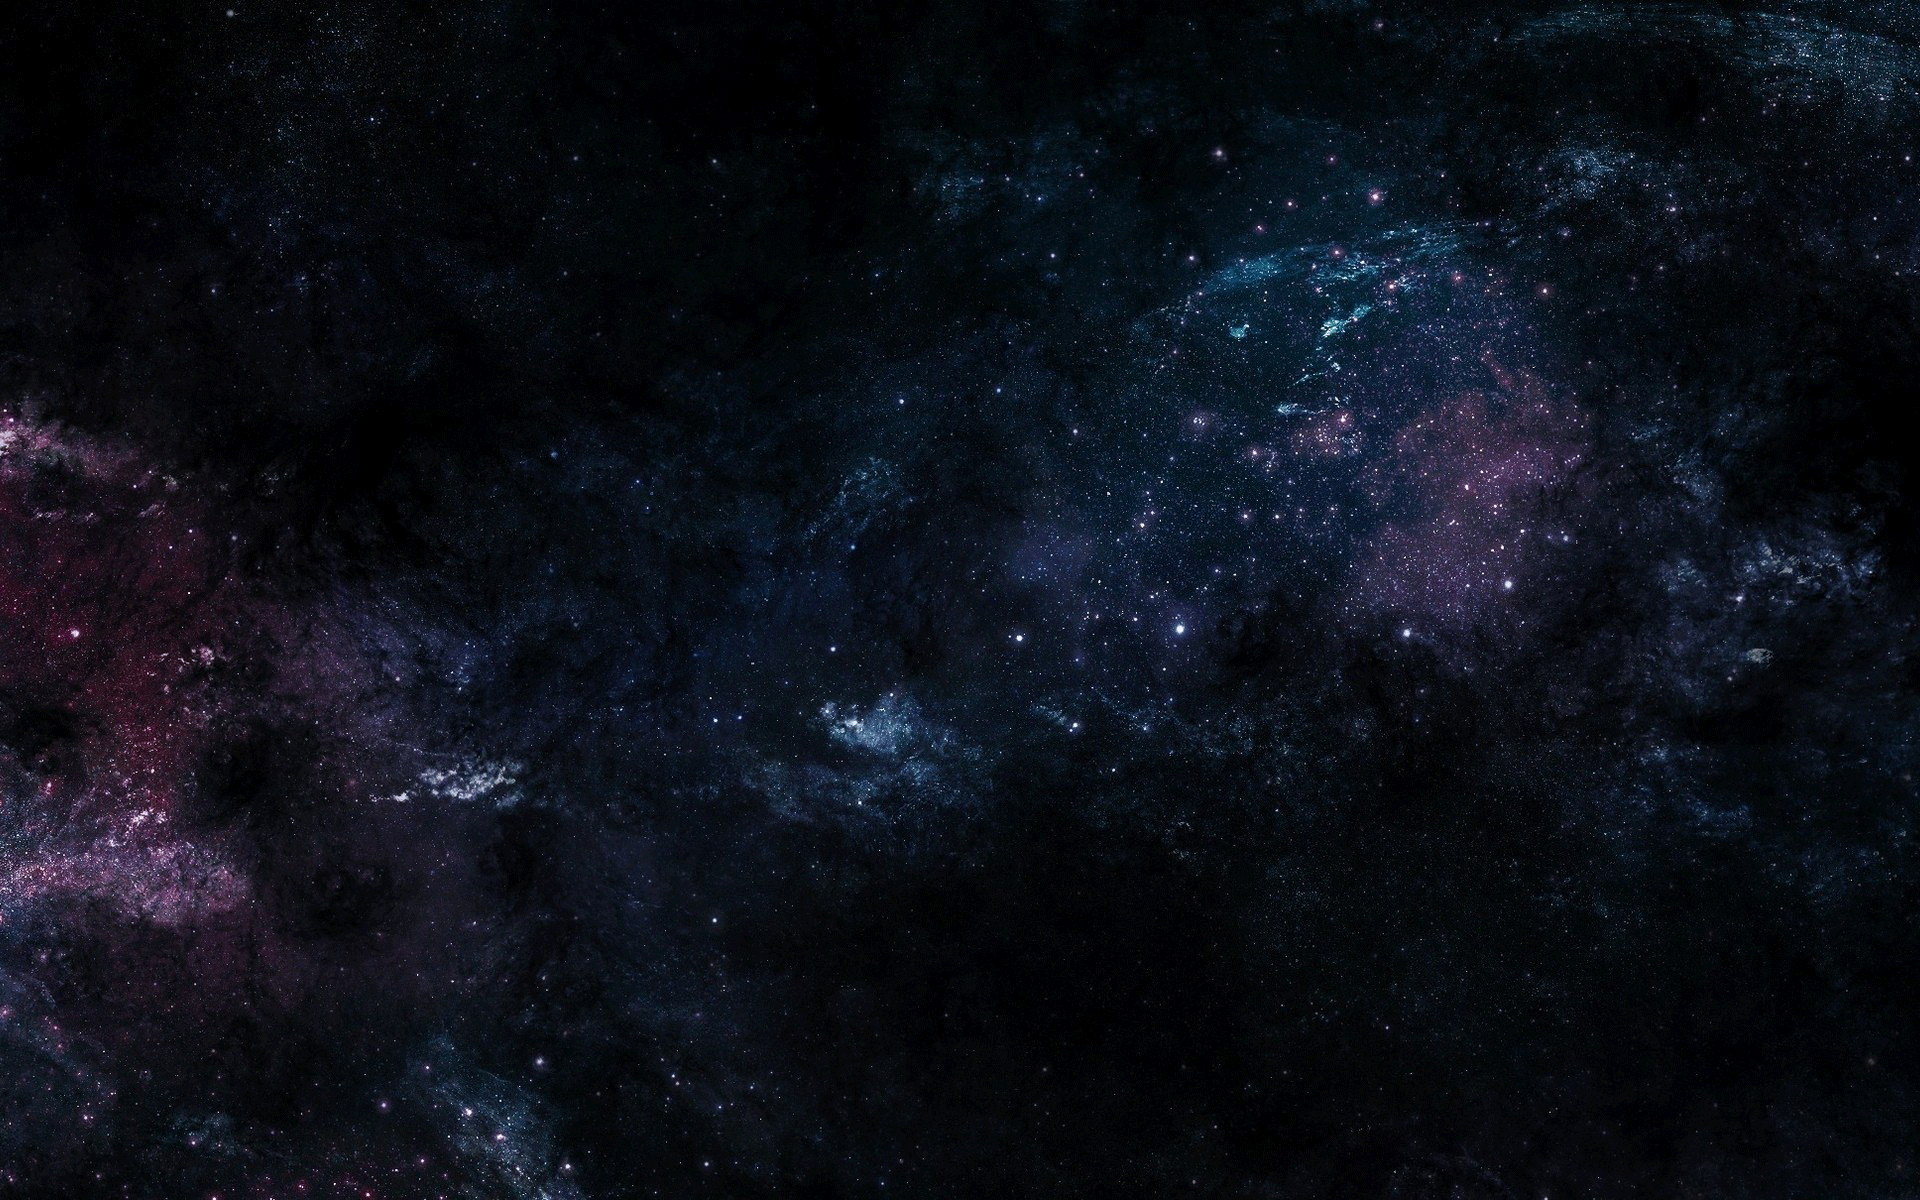
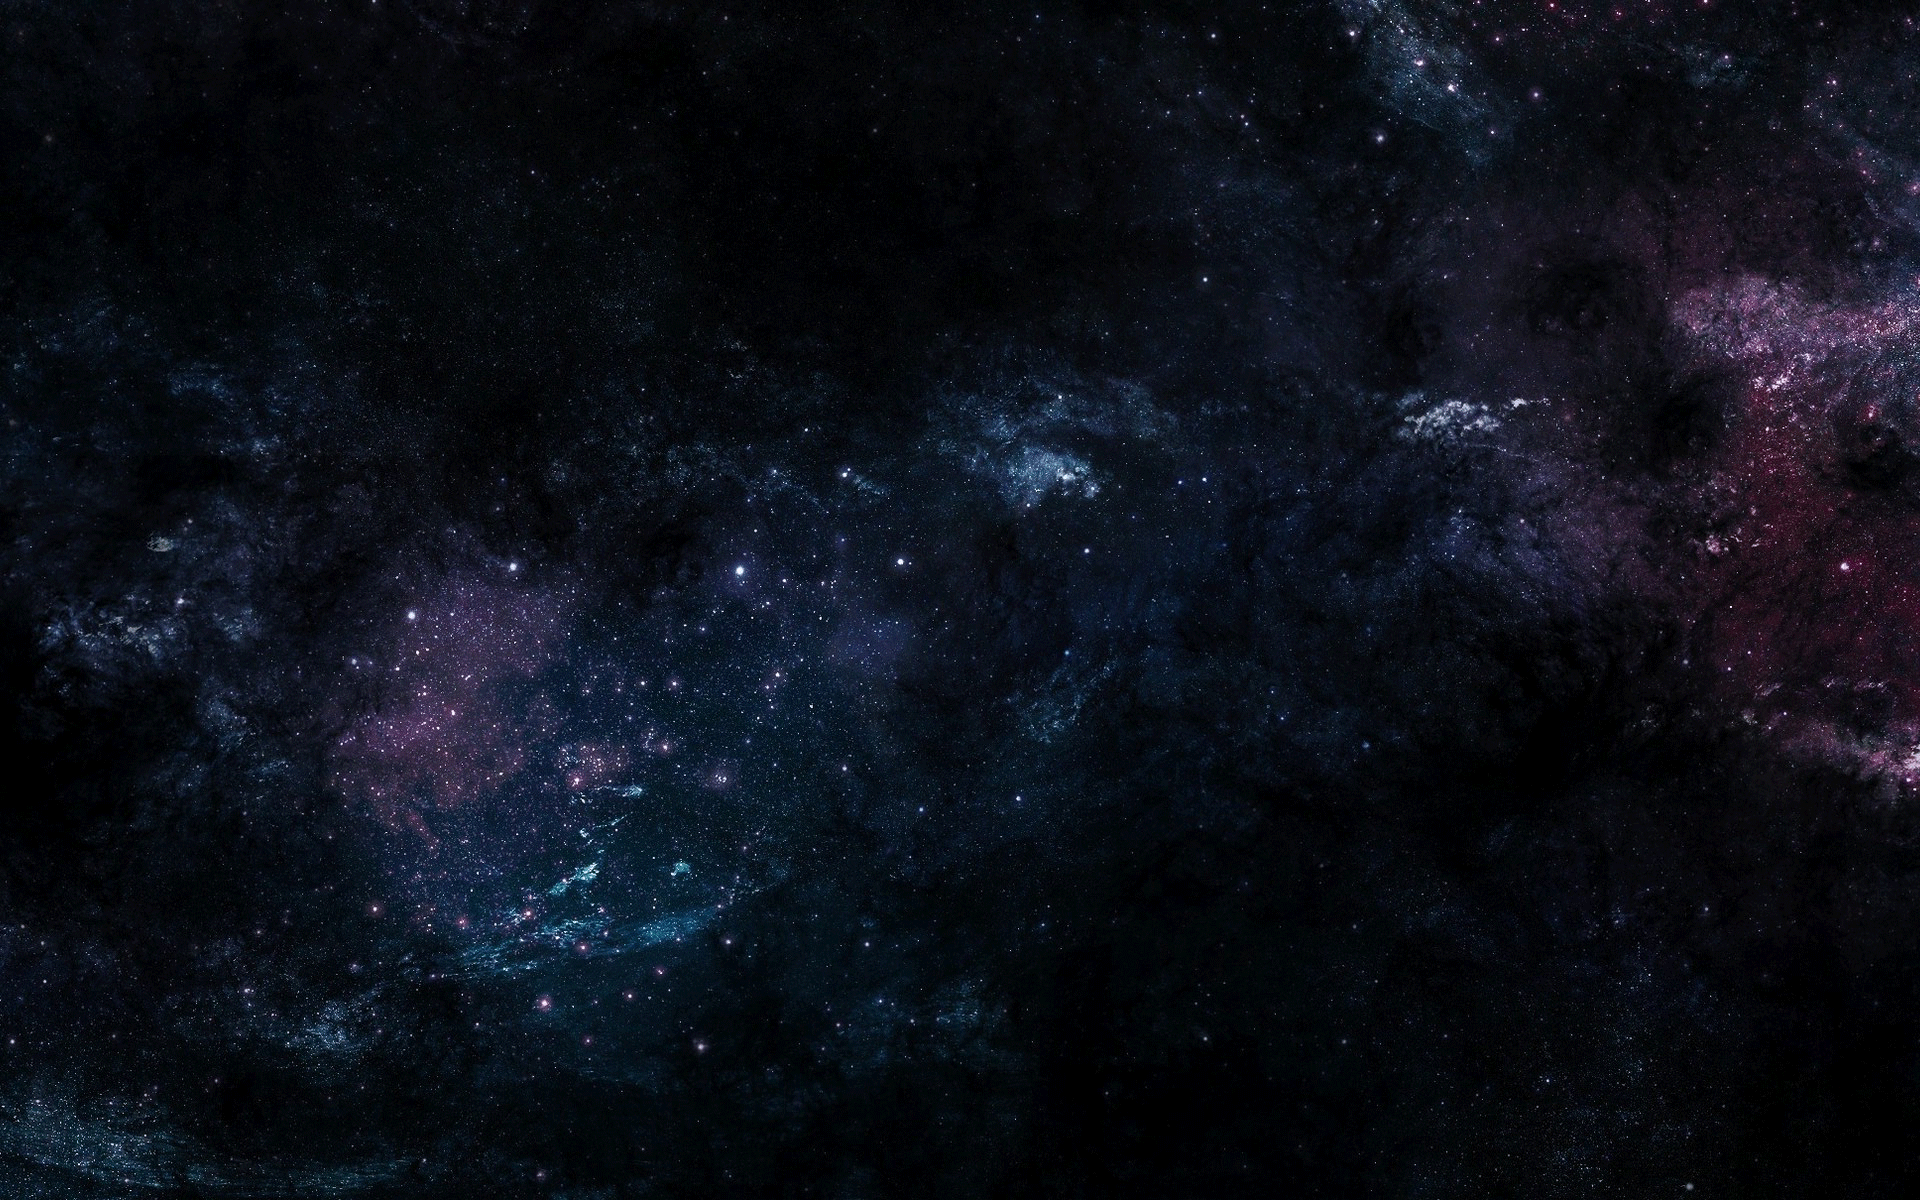
pravki

diff --git a/src/components/HomeChart/HomeChart.module.scss b/src/components/HomeChart/HomeChart.module.scss
@@ -1,21 +1,22 @@
 .wrapper {
   position: relative;
   border: 1px solid var(--border-color);
-  border-radius: var(--border-8px);
+  border-radius: 23.96px;
   overflow: hidden;
   flex-shrink: 0;
   &::before {
     position: absolute;
     content: "";
     inset: 0;
-    filter: blur(10px);
-    background-color: rgb(23 26 30 / 90%);
-    box-shadow: inset 0px 0px 17.11px 0px hsla(0, 0%, 100%, 0.19);
+    backdrop-filter: blur(40px);
+    background-color: rgba(255, 255, 255, 0.032);
+    box-shadow: inset 0px 0px 50.11px 0px rgba(255, 255, 255, 0.032);
     z-index: -1;
   }
   & .info,
   & .info-price {
-    padding: 10px 20px 10px 20px;
+    height: 34px;
+    padding: 5px 20px 5px 20px;
     display: flex;
     align-items: center;
     justify-content: space-between;
@@ -34,16 +35,20 @@
   }
   & .info {
     font-family: "Involve", sans-serif;
+    font-size: 10px;
     border-bottom: 1px solid var(--border-color);
     position: relative;
     overflow: hidden;
+    & span {
+      max-width: 54px;
+    }
     &::before {
       position: absolute;
       content: "";
       inset: 0;
-      filter: blur(10px);
-      background-color: rgb(23 26 30 / 90%);
-      box-shadow: inset 0px 0px 17.11px 0px hsla(0, 0%, 100%, 0.19);
+      backdrop-filter: blur(40px);
+      background-color: rgba(255, 255, 255, 0.032);
+      box-shadow: inset 0px 0px 50.11px 0px rgba(255, 255, 255, 0.032);
       z-index: -1;
     }
   }
@@ -57,9 +62,9 @@
       position: absolute;
       content: "";
       inset: 0;
-      filter: blur(10px);
-      background-color: rgb(23 26 30 / 90%);
-      box-shadow: inset 0px 0px 17.11px 0px hsla(0, 0%, 100%, 0.19);
+      backdrop-filter: blur(40px);
+      background-color: rgba(255, 255, 255, 0.032);
+      box-shadow: inset 0px 0px 50.11px 0px rgba(255, 255, 255, 0.032);
       z-index: -1;
     }
   }

diff --git a/src/styles/global.css b/src/styles/global.css
@@ -6,7 +6,6 @@
   color: var(--color-white);
   font-size: 8.56px;
   font-weight: normal;
-  background: url("/public/images/backgraund.png");
   overflow: auto;
 
   --color-bg: #1c1f24;
@@ -24,31 +23,15 @@
   --border-8px: 8.58px;
 }
 
-/* position: relative;
-border: 1px solid var(--border-color);
-border-radius: var(--border-8px);
-overflow: hidden;
-&::before {
-  position: absolute;
-  content: "";
-  inset: 0;
-  filter: blur(10px);
-  background-color: rgb(23 26 30 / 90%);
-  box-shadow: inset 0px 0px 17.11px 0px hsla(0, 0%, 100%, 0.19);
-  z-index: -1;
-} */
-
 body {
   overflow: hidden;
+  background: url("/public/images/backgraund.png");
+  background-position: 56% 40%;
 }
 
 a {
   color: var(--color-white);
 }
-
-/* a.active {
-  background-color: var(--color-bg);
-} */
 
 a.active > span {
   color: var(--color-primary);
@@ -58,15 +41,6 @@ img {
   width: 100%;
 }
 
-button {
-  border-radius: var(--border-8px);
-  background-color: var(--color-menu);
-  border: none;
-  padding: 4px 8px;
-  color: var(--color-white);
-  font-weight: bold;
-  cursor: pointer;
-}
 
 input {
   background-color: transparent;

diff --git a/src/components/FooterMenu/FooterMenu.module.scss b/src/components/FooterMenu/FooterMenu.module.scss
@@ -3,34 +3,19 @@
   bottom: 0;
   left: 0;
   right: 0;
-  background: linear-gradient(
-    90deg,
-    rgba(40, 45, 103, 1) 0%,
-    rgba(83, 73, 84, 1) 50%,
-    rgba(65, 49, 96, 1) 100%
-  );
+  background: url("/public/images/backgraund.png");
+  border-top: 1px solid var(--border-color);
   border-top-left-radius: var(--border-8px);
   border-top-right-radius: var(--border-8px);
-  padding-bottom: 15px;
+  padding: 10px 0px 15px 0px;
   z-index: 10;
-  & .gradient {
-    position: absolute;
-    top: 2px;
-    left: 0;
-    right: 0;
-    bottom: 0;
-    z-index: -10;
-    background: url("/public/images/backgraund.png");
-    border-top-left-radius: var(--border-8px);
-    border-top-right-radius: var(--border-8px);
-  }
 
   display: flex;
   align-items: center;
   justify-content: space-between;
 
-  & .link{
-    font-family: 'Inter', sans-serif;
+  & .link {
+    font-family: "Inter", sans-serif;
     border-radius: var(--border-8px);
     padding: 7px;
     gap: 5px;

diff --git a/src/components/HomeShope/HomeShope.module.scss b/src/components/HomeShope/HomeShope.module.scss
@@ -8,23 +8,29 @@
 
   & .button {
     width: 100%;
+    max-height: 26px;
     display: flex;
     align-items: center;
     justify-content: center;
     gap: 5px;
     padding: 8px;
 
+    & img {
+      width: 13px;
+      height: 13px;
+    }
+
     position: relative;
     border: 1px solid var(--border-color);
-    border-radius: var(--border-8px);
+    border-radius: 7.34px;
     overflow: hidden;
     &::before {
       position: absolute;
       content: "";
       inset: 0;
-      filter: blur(10px);
-      background-color: rgb(23 26 30 / 90%);
-      box-shadow: inset 0px 0px 17.11px 0px hsla(0, 0%, 100%, 0.19);
+      backdrop-filter: blur(40px);
+      background-color: rgba(255, 255, 255, 0.032);
+      box-shadow: inset 0px 0px 50.11px 0px rgba(255, 255, 255, 0.032);
       z-index: -1;
     }
   }

diff --git a/src/components/HomeCoin/HomeCoin.module.scss b/src/components/HomeCoin/HomeCoin.module.scss
@@ -29,18 +29,18 @@
       width: 100%;
       height: 50px;
       text-transform: uppercase;
-
       position: relative;
       border: 1px solid var(--border-color);
       border-radius: var(--border-8px);
       overflow: hidden;
+      background-color: transparent;
       &::before {
         position: absolute;
         content: "";
         inset: 0;
-        filter: blur(10px);
-        background-color: rgb(23 26 30 / 90%);
-        box-shadow: inset 0px 0px 17.11px 0px hsla(0, 0%, 100%, 0.19);
+        backdrop-filter: blur(40px);
+        background-color: rgba(255, 255, 255, 0.032);
+        box-shadow: inset 0px 0px 50.11px 0px rgba(255, 255, 255, 0.032);
         z-index: -1;
       }
       & span {

diff --git a/src/components/HomeTop/HomeTop.module.scss b/src/components/HomeTop/HomeTop.module.scss
@@ -38,9 +38,9 @@
         position: absolute;
         content: "";
         inset: 0;
-        filter: blur(10px);
-        background-color: rgb(23 26 30 / 90%);
-        box-shadow: inset 0px 0px 17.11px 0px hsla(0, 0%, 100%, 0.19);
+        backdrop-filter: blur(40px);
+        background-color: rgba(255, 255, 255, 0.032);
+        box-shadow: inset 0px 0px 50.11px 0px rgba(255, 255, 255, 0.032);
         z-index: -1;
       }
     }

diff --git a/src/pages/HomePage/HomePage.module.scss b/src/pages/HomePage/HomePage.module.scss
@@ -15,9 +15,9 @@
       position: absolute;
       content: "";
       inset: 0;
-      filter: blur(10px);
-      background-color: rgb(23 26 30 / 90%);
-      box-shadow: inset 0px 0px 17.11px 0px hsla(0, 0%, 100%, 0.19);
+      backdrop-filter: blur(40px);
+      background-color: rgba(255, 255, 255, 0.032);
+      box-shadow: inset 0px 0px 50.11px 0px rgba(255, 255, 255, 0.032);
       z-index: -1;
     }
   }

diff --git a/src/components/ui/HomeTopItem/HomeTopItem.module.scss b/src/components/ui/HomeTopItem/HomeTopItem.module.scss
@@ -20,9 +20,9 @@
     position: absolute;
     content: "";
     inset: 0;
-    filter: blur(10px);
-    background-color: rgb(23 26 30 / 90%);
-    box-shadow: inset 0px 0px 17.11px 0px hsla(0, 0%, 100%, 0.19);
+    backdrop-filter: blur(40px);
+    background-color: rgba(255, 255, 255, 0.032);
+    box-shadow: inset 0px 0px 50.11px 0px rgba(255, 255, 255, 0.032);
     z-index: -1;
   }
 }

diff --git a/src/components/HomeIphone/HomeIphone.module.scss b/src/components/HomeIphone/HomeIphone.module.scss
@@ -42,11 +42,11 @@
     -webkit-text-fill-color: transparent;
     & > span:nth-child(1) {
       font-family: "UltramonoWide", sans-serif;
-      font-size: 7.38px;
+      font-size: 10px;
     }
     & > span:nth-child(2) {
       font-family: "Bicubik", sans-serif;
-      font-size: 22.15px;
+      font-size: 27px;
     }
   }
 

diff --git a/src/components/FooterMenu/FooterMenu.jsx b/src/components/FooterMenu/FooterMenu.jsx
@@ -15,7 +15,6 @@ export default function FooterMenu() {
   }
   return (
     <nav className={styled.menu}>
-      <div className={styled.gradient}></div>
       <NavLink onClick={handlerVibrationTg} className={styled.link} to="token">
         <div>
           <img src="/newUI/token.svg" alt="icon" />
